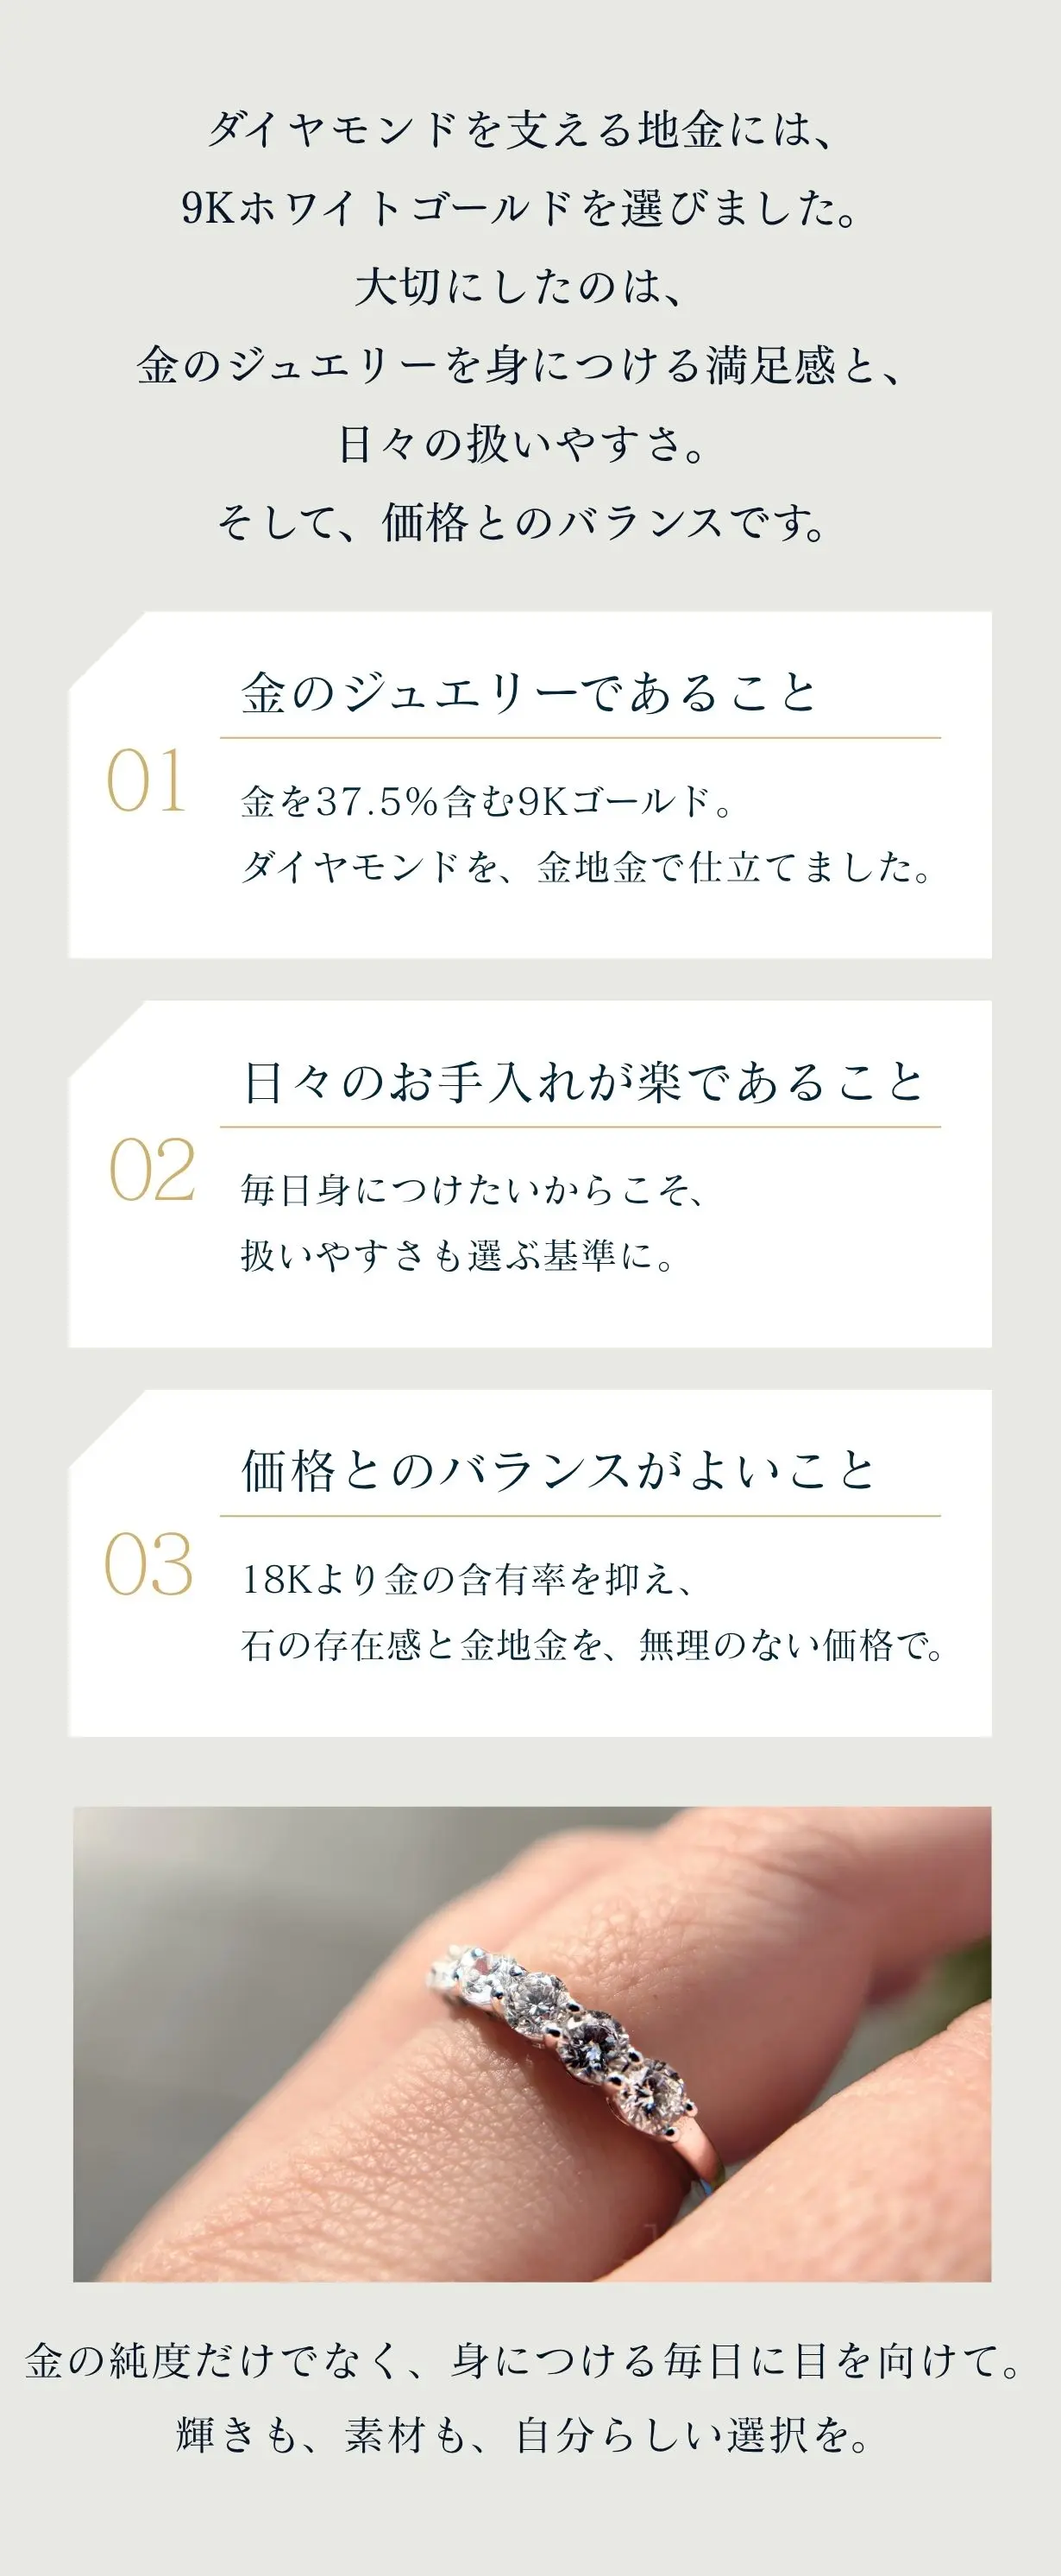
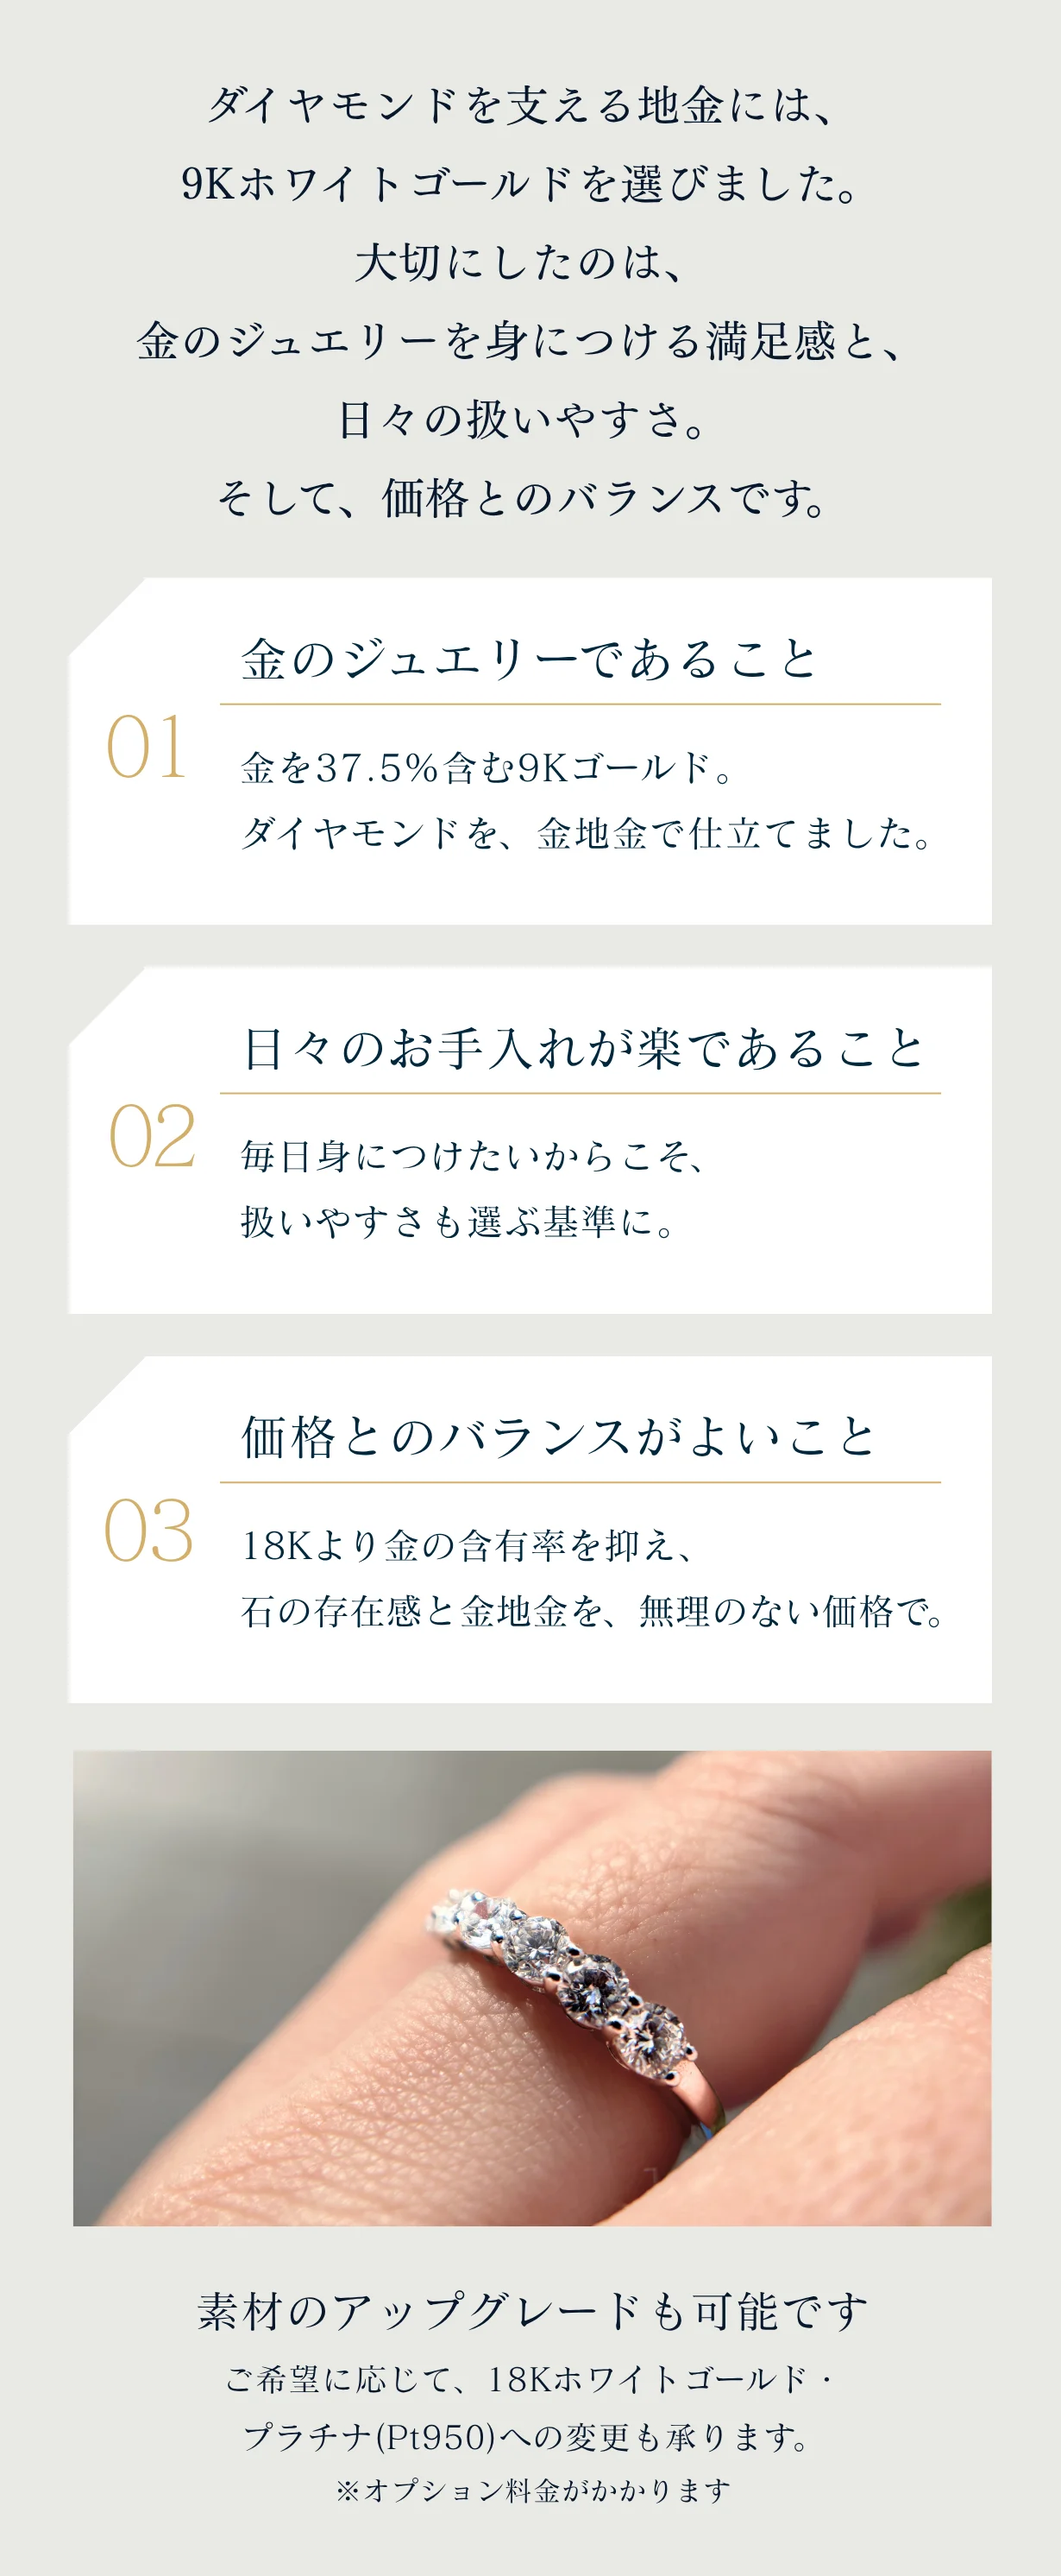
地金セクションを素材アップグレード案内入りの新画像に差し替え

diff --git a/index.html b/index.html
@@ -18,7 +18,7 @@
 .line-float.is-visible{opacity:1;visibility:visible;transform:none}
 .line-float svg{width:32px;height:auto}
 @media(prefers-reduced-motion:reduce){.line-float{transition:none}}
-</style></head><body><main aria-label="MOHS ハーフエタニティリング"><div class="hero-banner"><img src="assets/fv-main.webp" width="1230" height="2187" alt="MOHS 1ctの輝きを、もっと日常に ラボグロウンダイヤモンドが輝く、ハーフエタニティリング 12.1 Makuake 先行販売 超早割 ¥89,800 限定3点" loading="eager" decoding="async"><a class="line-cta" href="https://lin.ee/tXXrxcO" target="_blank" rel="noopener noreferrer"><span>LINE登録でお得に</span><span class="cta-arrow" aria-hidden="true"></span></a></div><img src="assets/fv-copy.webp" width="1230" height="1230" alt="仕事の日も、休日も なんでもない日を、ほんの少し特別に。ふと目に入るたびに嬉しくなる。いつもの装いのなかに大粒ダイヤモンドの輝きを。6石で合計1ct IGI鑑定書付き ハーフエタニティリング" loading="eager" decoding="async"><img src="assets/2.webp" width="1230" height="1640" alt="MOHS 商品紹介 3" loading="eager" decoding="async"><div class="sale-banner"><img src="assets/sale-cta.webp" width="1230" height="1640" alt="Makuake 12.1 TUE 12:00 START 超早割 限定3点 一般販売価格¥139,800(税込)から35%OFF ¥89,800(税込) LINE事前登録の方限定 開始日時・商品情報・早割情報をLINE友だちご登録で優先的にご案内します" loading="eager" decoding="async"><a class="line-cta" href="https://lin.ee/tXXrxcO" target="_blank" rel="noopener noreferrer"><span>LINE登録でお得に</span><span class="cta-arrow" aria-hidden="true"></span></a></div><video class="ring-video" src="assets/ring-sparkle.mp4" poster="assets/ring-sparkle-poster.webp" width="1280" height="720" autoplay muted loop playsinline preload="metadata" aria-label="指輪のダイヤモンドがきらめく様子"></video><img src="assets/5.webp" width="1230" height="350" alt="MOHS 商品紹介 6" loading="lazy" decoding="async"><img src="assets/6.webp" width="1230" height="2984" alt="MOHS 商品紹介 7" loading="lazy" decoding="async"><img src="assets/7.webp" width="1230" height="350" alt="MOHS 商品紹介 8" loading="lazy" decoding="async"><img src="assets/8.webp" width="1230" height="2984" alt="ダイヤモンド。実は、とっても日常向き 擦り傷に強い・水に強い ダイヤモンドはモース硬度で最高値の10。宝石の中で最も硬く、日常生活での擦り傷が付きにくいのが特徴です。リングの手のひら側は地金のみで仕立て、着け心地にも配慮しました。ダイヤモンドを留める爪には丸みを。ストッキングやニットにも引っかかりにくいよう、細部まで工夫しています。" loading="lazy" decoding="async"><img src="assets/9.gif" width="738" height="984" alt="MOHS 商品紹介 10" loading="lazy" decoding="async"><img src="assets/10.webp" width="1230" height="820" alt="MOHS 商品紹介 11" loading="lazy" decoding="async"><img src="assets/11.webp" width="1230" height="2984" alt="MOHS 商品紹介 12" loading="lazy" decoding="async"><img src="assets/12.webp" width="1230" height="1230" alt="MOHS 商品紹介 13" loading="lazy" decoding="async"><img src="assets/13.webp" width="1230" height="350" alt="MOHS 商品紹介 14" loading="lazy" decoding="async"><img src="assets/14.webp" width="1230" height="2984" alt="MOHS 商品紹介 15" loading="lazy" decoding="async"><img src="assets/15.webp" width="1230" height="350" alt="MOHS 商品紹介 16" loading="lazy" decoding="async"><img src="assets/16.webp" width="1230" height="1640" alt="MOHS 商品紹介 17" loading="lazy" decoding="async"><img src="assets/17.webp" width="1230" height="350" alt="MOHS 商品紹介 18" loading="lazy" decoding="async"><img src="assets/18.webp" width="1230" height="2984" alt="MOHS 商品紹介 19" loading="lazy" decoding="async"><img src="assets/19.webp" width="1230" height="350" alt="MOHS 商品紹介 20" loading="lazy" decoding="async"><img src="assets/20.webp" width="1230" height="1230" alt="MOHS 商品紹介 21" loading="lazy" decoding="async"><img src="assets/21.webp" width="1230" height="820" alt="MOHS 商品紹介 22" loading="lazy" decoding="async"><img src="assets/22.webp" width="1230" height="2984" alt="MOHS 商品紹介 23" loading="lazy" decoding="async"><aside class="quality-notes" aria-label="ダイヤモンドの品質と鑑定書についての注意事項"><p>※上記グレードは仕入れ元の品質基準です。カットグレードは鑑定書には記載されていません。</p><p>※鑑定書は完成品のリングに対して発行されるもので、一石ごとに付属するものではありません。</p></aside><img src="assets/23.webp" width="1230" height="350" alt="MOHS 商品紹介 24" loading="lazy" decoding="async"><div class="origin-copy"><p>世界各地から宝石やバイヤーが集まるタイは、ジュエリーの製造・取引で世界的に知られる拠点のひとつです。</p></div><img src="assets/24.webp" width="1230" height="1640" alt="MOHS 商品紹介 25" loading="lazy" decoding="async"><div class="origin-copy"><p>旅行先のこの地で、ラボグロウンダイヤモンドのジュエリーを手に取りました。</p><p>その美しさと、ダイヤモンドをもっと身近に楽しめる選択肢があることに、心を動かされました。</p><p><strong>「この輝きを、もっと日常の中で楽しめたら。」</strong></p><p>帰国後もその思いは変わらず、素材や品質、価格について検討を重ねました。</p></div><img src="assets/25.webp" width="1230" height="820" alt="MOHS 商品紹介 26" loading="lazy" decoding="async"><div class="origin-copy"><p>タイで出会ったジュエラーとのやり取りを通じて、その思いを形にしたのが、MOHS JEWELRYの最初のリングです。</p></div><img src="assets/26.webp" width="1230" height="350" alt="MOHS 商品紹介 27" loading="lazy" decoding="async"><img src="assets/27.webp" width="1230" height="1230" alt="MOHS 商品紹介 28" loading="lazy" decoding="async"><img src="assets/28.webp" width="1230" height="1230" alt="MOHS 商品紹介 29" loading="lazy" decoding="async"><img src="assets/29.webp" width="1230" height="1230" alt="MOHS 商品紹介 30" loading="lazy" decoding="async"><img src="assets/30.webp" width="1230" height="1640" alt="MOHS 商品紹介 31" loading="lazy" decoding="async"><img src="assets/31.webp" width="1230" height="1640" alt="MOHS 商品紹介 32" loading="lazy" decoding="async"><img src="assets/32.webp" width="1230" height="350" alt="MOHS 商品紹介 33" loading="lazy" decoding="async"><section class="detail-copy" aria-label="お届け後のサポートの詳細">
+</style></head><body><main aria-label="MOHS ハーフエタニティリング"><div class="hero-banner"><img src="assets/fv-main.webp" width="1230" height="2187" alt="MOHS 1ctの輝きを、もっと日常に ラボグロウンダイヤモンドが輝く、ハーフエタニティリング 12.1 Makuake 先行販売 超早割 ¥89,800 限定3点" loading="eager" decoding="async"><a class="line-cta" href="https://lin.ee/tXXrxcO" target="_blank" rel="noopener noreferrer"><span>LINE登録でお得に</span><span class="cta-arrow" aria-hidden="true"></span></a></div><img src="assets/fv-copy.webp" width="1230" height="1230" alt="仕事の日も、休日も なんでもない日を、ほんの少し特別に。ふと目に入るたびに嬉しくなる。いつもの装いのなかに大粒ダイヤモンドの輝きを。6石で合計1ct IGI鑑定書付き ハーフエタニティリング" loading="eager" decoding="async"><img src="assets/2.webp" width="1230" height="1640" alt="MOHS 商品紹介 3" loading="eager" decoding="async"><div class="sale-banner"><img src="assets/sale-cta.webp" width="1230" height="1640" alt="Makuake 12.1 TUE 12:00 START 超早割 限定3点 一般販売価格¥139,800(税込)から35%OFF ¥89,800(税込) LINE事前登録の方限定 開始日時・商品情報・早割情報をLINE友だちご登録で優先的にご案内します" loading="eager" decoding="async"><a class="line-cta" href="https://lin.ee/tXXrxcO" target="_blank" rel="noopener noreferrer"><span>LINE登録でお得に</span><span class="cta-arrow" aria-hidden="true"></span></a></div><video class="ring-video" src="assets/ring-sparkle.mp4" poster="assets/ring-sparkle-poster.webp" width="1280" height="720" autoplay muted loop playsinline preload="metadata" aria-label="指輪のダイヤモンドがきらめく様子"></video><img src="assets/5.webp" width="1230" height="350" alt="MOHS 商品紹介 6" loading="lazy" decoding="async"><img src="assets/6.webp" width="1230" height="2984" alt="MOHS 商品紹介 7" loading="lazy" decoding="async"><img src="assets/7.webp" width="1230" height="350" alt="MOHS 商品紹介 8" loading="lazy" decoding="async"><img src="assets/8.webp" width="1230" height="2984" alt="ダイヤモンド。実は、とっても日常向き 擦り傷に強い・水に強い ダイヤモンドはモース硬度で最高値の10。宝石の中で最も硬く、日常生活での擦り傷が付きにくいのが特徴です。リングの手のひら側は地金のみで仕立て、着け心地にも配慮しました。ダイヤモンドを留める爪には丸みを。ストッキングやニットにも引っかかりにくいよう、細部まで工夫しています。" loading="lazy" decoding="async"><img src="assets/9.gif" width="738" height="984" alt="MOHS 商品紹介 10" loading="lazy" decoding="async"><img src="assets/10.webp" width="1230" height="820" alt="MOHS 商品紹介 11" loading="lazy" decoding="async"><img src="assets/11.webp" width="1230" height="2984" alt="MOHS 商品紹介 12" loading="lazy" decoding="async"><img src="assets/12.webp" width="1230" height="1230" alt="MOHS 商品紹介 13" loading="lazy" decoding="async"><img src="assets/13.webp" width="1230" height="350" alt="MOHS 商品紹介 14" loading="lazy" decoding="async"><img src="assets/14.webp" width="1230" height="2984" alt="ダイヤモンドを支える地金には、9Kホワイトゴールドを選びました。01 金のジュエリーであること 金を37.5%含む9Kゴールド。02 日々のお手入れが楽であること 03 価格とのバランスがよいこと 18Kより金の含有率を抑え、石の存在感と金地金を、無理のない価格で。素材のアップグレードも可能です ご希望に応じて、18Kホワイトゴールド・プラチナ(Pt950)への変更も承ります。※オプション料金がかかります" loading="lazy" decoding="async"><img src="assets/15.webp" width="1230" height="350" alt="MOHS 商品紹介 16" loading="lazy" decoding="async"><img src="assets/16.webp" width="1230" height="1640" alt="MOHS 商品紹介 17" loading="lazy" decoding="async"><img src="assets/17.webp" width="1230" height="350" alt="MOHS 商品紹介 18" loading="lazy" decoding="async"><img src="assets/18.webp" width="1230" height="2984" alt="MOHS 商品紹介 19" loading="lazy" decoding="async"><img src="assets/19.webp" width="1230" height="350" alt="MOHS 商品紹介 20" loading="lazy" decoding="async"><img src="assets/20.webp" width="1230" height="1230" alt="MOHS 商品紹介 21" loading="lazy" decoding="async"><img src="assets/21.webp" width="1230" height="820" alt="MOHS 商品紹介 22" loading="lazy" decoding="async"><img src="assets/22.webp" width="1230" height="2984" alt="MOHS 商品紹介 23" loading="lazy" decoding="async"><aside class="quality-notes" aria-label="ダイヤモンドの品質と鑑定書についての注意事項"><p>※上記グレードは仕入れ元の品質基準です。カットグレードは鑑定書には記載されていません。</p><p>※鑑定書は完成品のリングに対して発行されるもので、一石ごとに付属するものではありません。</p></aside><img src="assets/23.webp" width="1230" height="350" alt="MOHS 商品紹介 24" loading="lazy" decoding="async"><div class="origin-copy"><p>世界各地から宝石やバイヤーが集まるタイは、ジュエリーの製造・取引で世界的に知られる拠点のひとつです。</p></div><img src="assets/24.webp" width="1230" height="1640" alt="MOHS 商品紹介 25" loading="lazy" decoding="async"><div class="origin-copy"><p>旅行先のこの地で、ラボグロウンダイヤモンドのジュエリーを手に取りました。</p><p>その美しさと、ダイヤモンドをもっと身近に楽しめる選択肢があることに、心を動かされました。</p><p><strong>「この輝きを、もっと日常の中で楽しめたら。」</strong></p><p>帰国後もその思いは変わらず、素材や品質、価格について検討を重ねました。</p></div><img src="assets/25.webp" width="1230" height="820" alt="MOHS 商品紹介 26" loading="lazy" decoding="async"><div class="origin-copy"><p>タイで出会ったジュエラーとのやり取りを通じて、その思いを形にしたのが、MOHS JEWELRYの最初のリングです。</p></div><img src="assets/26.webp" width="1230" height="350" alt="MOHS 商品紹介 27" loading="lazy" decoding="async"><img src="assets/27.webp" width="1230" height="1230" alt="MOHS 商品紹介 28" loading="lazy" decoding="async"><img src="assets/28.webp" width="1230" height="1230" alt="MOHS 商品紹介 29" loading="lazy" decoding="async"><img src="assets/29.webp" width="1230" height="1230" alt="MOHS 商品紹介 30" loading="lazy" decoding="async"><img src="assets/30.webp" width="1230" height="1640" alt="MOHS 商品紹介 31" loading="lazy" decoding="async"><img src="assets/31.webp" width="1230" height="1640" alt="MOHS 商品紹介 32" loading="lazy" decoding="async"><img src="assets/32.webp" width="1230" height="350" alt="MOHS 商品紹介 33" loading="lazy" decoding="async"><section class="detail-copy" aria-label="お届け後のサポートの詳細">
 <p>長くご愛用いただけるよう、修理やサイズ直しなど、お届け後のご相談も承ります。</p>
 <h3>品質保証</h3><p>お届け時に初期不良が認められた場合は、無償で修理または交換いたします。商品到着後14日以内にご連絡ください。</p>
 <h3>修理・サイズ直し</h3><p>ご使用による傷・変形・破損や、サイズ直しは有償で承ります。対応の可否や費用は、リングの状態により異なります。</p>
